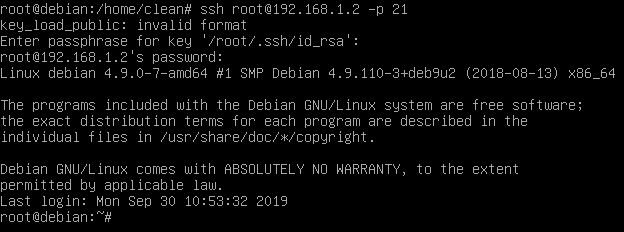
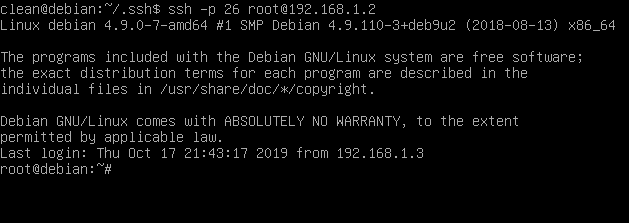
Added soport without password for root user

Changed region(s): [[0.0, 0.3767, 0.9439, 0.8879], [0.0, 0.0, 1.0, 0.3498], [0.0, 0.9148, 0.1827, 0.9686]]

diff --git a/servicios-practica-1/practica1.md b/servicios-practica-1/practica1.md
@@ -1,18 +1,24 @@
 ## Tabla de contenidos
 0. [Introducción](#intro)
+
 1. [Systemctl](#system)
-    2. [Servicios](#servicios)
-    3. [Ejecución](#ejecucion)
+    + [Servicios](#servicios)
+    + [Ejecución](#ejecucion)
+
 2. [SSH](#ssh)
-    1. [Puerto](#port)
-    2. [Lista](#list)
-    3. [Logs](#logs)
-    4. [Conexión](#test)
+    + [Puerto](#port)
+    + [Lista](#list)
+    + [Logs](#logs)
+    + [Conexión](#test)
+
 3. [Journal](#journal)
-    1. [Persistente](#journalp)
+    + [Persistente](#journalp)
+
 4. [Netstat](#netstat)
-    1. [Puertos](#netstatp)
+    + [Puertos](#netstatp)
+
 5. [Conclusión](#conclusion)
+
 6. [Fuentes](#fuentes)
 
 <div id='intro'/>
@@ -128,8 +134,17 @@ Modificaremos la directiva AllowUsers permitiendo acceso al usuario root junto c
 ```
 $ AllowUsers allowssh root
 $ allowssh y root son dos usuarios del sistema.
-$ PermitRootLogin yes
 ```
+Configuraremos el usuario root para que acceda sin clave mediante la clave publica
+```
+$ PermitRootLogin without-password
+```
+Copiaremos la clave publica del cliente hacia el usuario root mediante el siguiente comando
+
+```
+ssh-copy-id -i id-rsa.pub root@192.168.1.2 -p 21
+```
+Una vez copiada debemos de dejar la directiva PasswordAuthentication yes, si cambiamos el valor a "no" no podremos acceder mediante otros usuarios.
 
 <div id='logs'/>
 
@@ -149,14 +164,14 @@ ___
 
 Veremos las siguientes comprobaciónes
 1. Exitosa
-    1. Root
-    ![SUCESSFULL](Imagenes/root.png)
-    2. Allowssh
-    ![SUCESSFULL](Imagenes/allowssh.png)
+    + Root
+        ![SUCESSFULL](Imagenes/root.png)
 
-2. Erronea
-    1. Deniedssh
-    ![FAIL](Imagenes/deniedssh.png)
+    + Allowssh
+        ![SUCESSFULL](Imagenes/allowssh.png)
+2. Erronea   
+    + Deniedssh
+        ![FAIL](Imagenes/deniedssh.png)
 
 <div id='journal'/>
 
